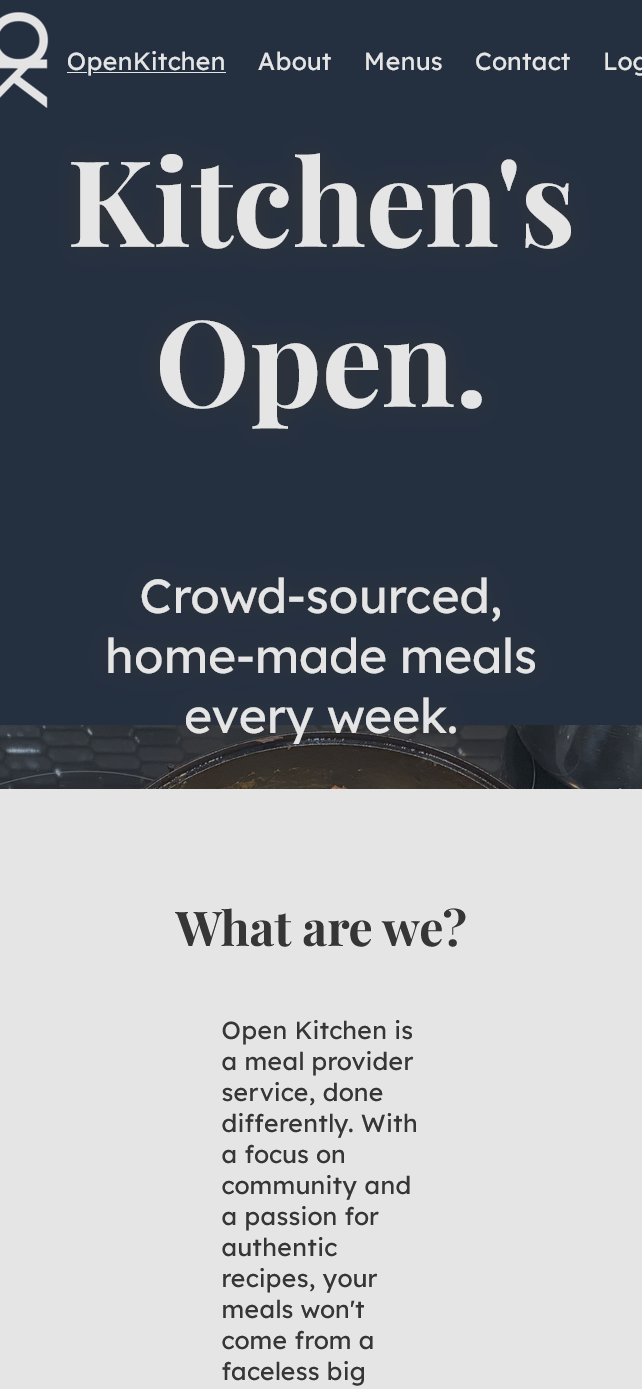
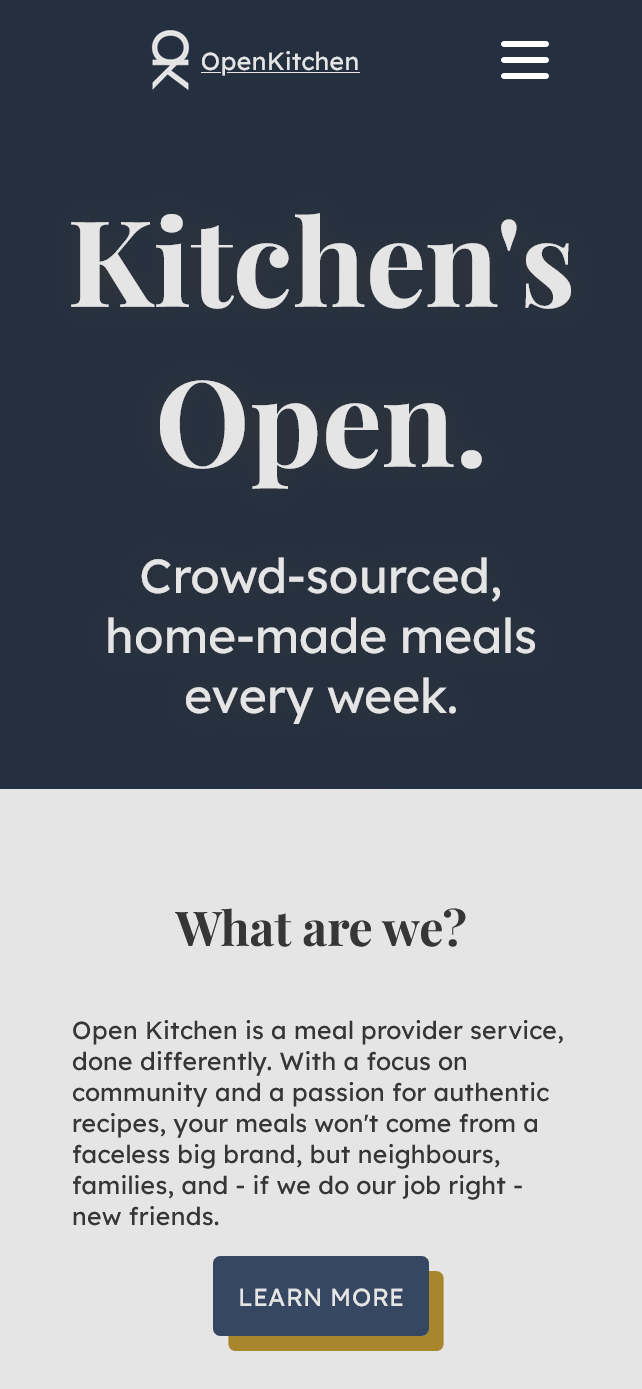
Added mobile formatting Changes to be committed: 	modified:   package-lock.json 	modified:   package.json 	modified:   src/App.css 	modified:   src/Assets/soupgang-mobile.png 	modified:   src/Header.js 	modified:   src/Portfolio.css 	modified:   src/Portfolio.js

diff --git a/src/Portfolio.js b/src/Portfolio.js
@@ -5,7 +5,7 @@ import { FontAwesomeIcon } from '@fortawesome/react-fontawesome';
 import { icon } from '@fortawesome/fontawesome-svg-core/import.macro'
 import {ReactComponent as Arrows} from './Assets/arrow-left-right.svg';
 export default function Portfolio() {
-    const [isDesktop, setIsDesktop] = useState(true);
+    const [isDesktop, setIsDesktop] = useState(window.innerWidth >= 767 ? true : false);
     function toggleMode() {
         setIsDesktop(!isDesktop);
     }
@@ -17,16 +17,21 @@ export default function Portfolio() {
                 <Arrows className={`arrows ${isDesktop?'desktop':'mobile'}`} />
                 <FontAwesomeIcon icon={icon({name: "display"})} style={{opacity: !isDesktop? '0.5' : '1', scale: isDesktop? '1.1' : '0.9'}}/>
             </div>
-            <div className="portfolio-list">
+            <div className="portfolio-list" style={{flexFlow: isDesktop? 'column':'row'}}>
                 {
                     sites.map(site => {
                         return (
                             <a href={site.link} className="portfolio-item-container" rel="noreferrer" target="_blank" key={site.title}>
-                                <div  className={`portfolio-item ${isDesktop?'desktop-portfolio-item':'mobile-portfolio-item'}`} style={{width: isDesktop?'40vw': '20vw', height: isDesktop? '22.5vw' : 'calc(20vw * 926 / 428)'}}>
+                                {window.innerWidth <= 767 && <div className={`portfolio-item ${isDesktop?'desktop-portfolio-item':'mobile-portfolio-item'}`} style={{width: isDesktop?'80vw': '70vw', height: isDesktop? '45vw' : 'calc(70vw * 926 / 428)'}}>
                                     <h3>{site.title}</h3>
                                     <p className="portfolio-description">{site.description}</p>
                                     <img src={isDesktop ? site.desktopImage : !isDesktop ? site.mobileImage: null} alt={site.title} />
-                                </div>
+                                </div> }
+                                {window.innerWidth > 767 && <div className={`portfolio-item ${isDesktop?'desktop-portfolio-item':'mobile-portfolio-item'}`} style={{width: isDesktop?'40vw': '20vw', height: isDesktop? '22.5vw' : 'calc(20vw * 926 / 428)'}}>
+                                    <h3>{site.title}</h3>
+                                    <p className="portfolio-description">{site.description}</p>
+                                    <img src={isDesktop ? site.desktopImage : !isDesktop ? site.mobileImage: null} alt={site.title} />
+                                </div> }
                             </a>
                         )
                     })

diff --git a/src/Portfolio.css b/src/Portfolio.css
@@ -5,11 +5,10 @@
     align-items: center;
     justify-content: center;
     flex-flow: column;
-    margin-top: 40vh;
+    margin-top: 20vh;
 }
 .portfolio-list {
     display: flex;
-    flex-flow: column;
     align-items: center;
 }
 .portfolio-item-container {
@@ -122,5 +121,21 @@
     100% {
         opacity: 1;
         transform: scaleY(-1);
+    }
+}
+@media (max-width: 767px) {
+    .portfolio {
+        margin-top: 10rem;
+    }
+    .portfolio-list {
+        width: 100vw;
+        overflow: scroll;
+        scroll-snap-type: x mandatory;
+    }
+    .mobile-portfolio-item {
+        margin-left: 20vw;
+        margin-right: 20vw;
+        scroll-snap-align: center;
+
     }
 }

diff --git a/src/Header.js b/src/Header.js
@@ -7,7 +7,6 @@ function Header() {
   const toggleHamburger = () => {
     setHamburgerOpen(!hamburgerOpen)
   }
-  console.log(window.location.pathname);
   return (
     // <header className="Header" style={{"backgroundColor": props.backgroundColor}}>
     <header>

diff --git a/src/App.css b/src/App.css
@@ -1,6 +1,6 @@
 
 * {
-  /* outline: 1px solid red;    */
+  outline: 0px solid red;   
   transition: all 0.2s ease-in-out;}
 @font-face {
   font-family: 'Libre Bodoni';
